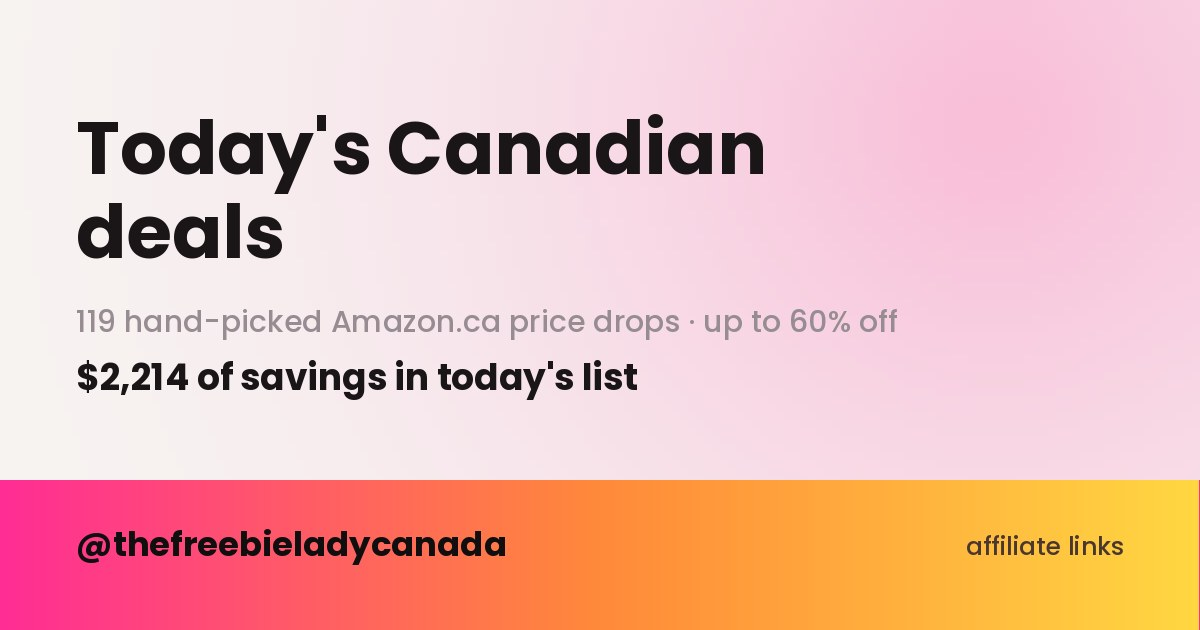
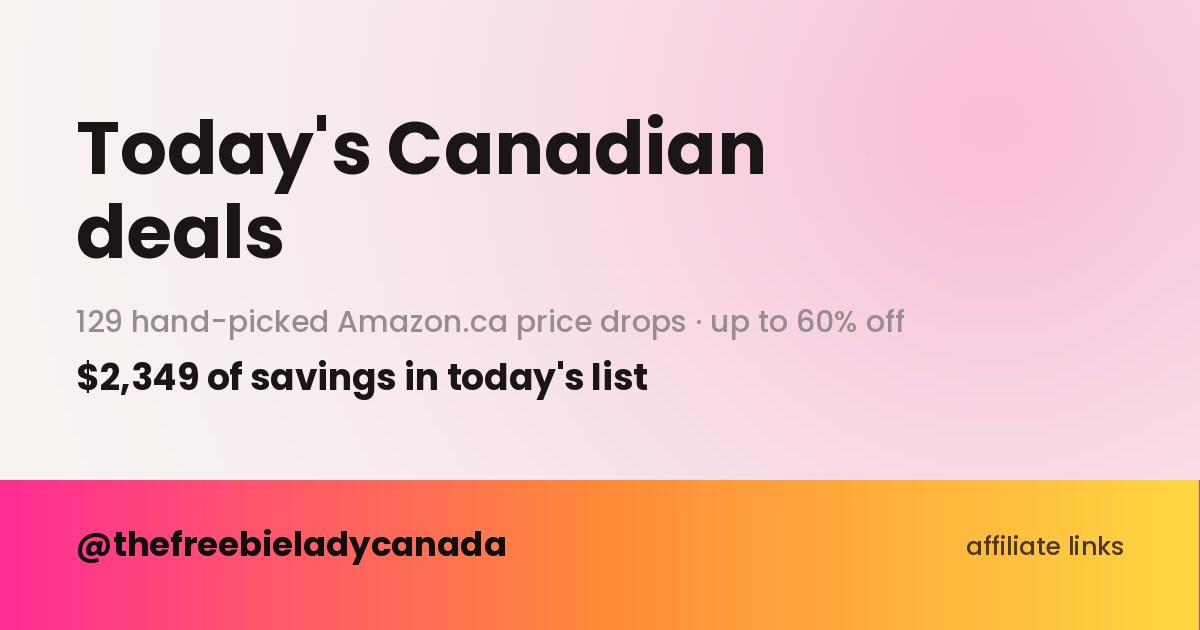
Add files via upload

Changed region(s): [[0.0617, 0.4825, 0.7708, 0.5429], [0.0925, 0.573, 0.555, 0.6333]]

diff --git a/index.html b/index.html
@@ -4,12 +4,12 @@
 <meta charset="utf-8">
 <meta name="viewport" content="width=device-width, initial-scale=1">
 <title>Today's Canadian Deals — The Freebie Lady Canada</title>
-<meta name="description" content="119 hand-picked Amazon.ca price drops, up to 60% off. Updated daily.">
+<meta name="description" content="129 hand-picked Amazon.ca price drops, up to 60% off. Updated daily.">
 <link rel="canonical" href="https://thefreebieladycanada.com/">
 <meta property="og:type" content="website">
 <meta property="og:site_name" content="The Freebie Lady Canada">
 <meta property="og:title" content="Today's Canadian Deals">
-<meta property="og:description" content="119 hand-picked Amazon.ca price drops, up to 60% off. Updated daily.">
+<meta property="og:description" content="129 hand-picked Amazon.ca price drops, up to 60% off. Updated daily.">
 <meta property="og:url" content="https://thefreebieladycanada.com/">
 <meta property="og:image" content="https://thefreebieladycanada.com/og.jpg">
 <meta property="og:image:width" content="1200">
@@ -172,7 +172,7 @@ footer b{color:var(--ink); font-weight:600}
     <div class="rule"></div>
     <p class="sub">Hand-picked price drops on Amazon.ca — from
       <b>@thefreebieladycanada</b>.</p>
-    <p class="meta">119 deals &middot; checked 21 September, 11:49 AM ET</p>
+    <p class="meta">129 deals &middot; checked 21 September, 7:04 PM ET</p>
   </header>
 
   <p class="upfront"><b>Affiliate links</b> — every link on this page, including the perks below, is an Amazon affiliate link.</p>
@@ -235,7 +235,7 @@ footer b{color:var(--ink); font-weight:600}
         <span class="go" aria-hidden="true">&rarr;</span>
       </a>
     </div>
-    <a class="jump" href="#deals">See today's 119 deals &darr;</a>
+    <a class="jump" href="#deals">See today's 129 deals &darr;</a>
   </section>
 
   <h2 class="deals-head" id="deals">Today's deals</h2>
@@ -244,10 +244,90 @@ footer b{color:var(--ink); font-weight:600}
     <details class="daygroup" open>
       <summary class="daysum">
         <span class="daylabel">Today</span>
-        <span class="daycount">5 deals</span>
+        <span class="daycount">15 deals</span>
         <span class="chev" aria-hidden="true">&#9662;</span>
       </summary>
       <ul>
+
+    <li>
+      <a class="deal" href="https://www.amazon.ca/dp/B00GGBI5CC?tag=thefreebielad-20&amp;linkCode=ll1&amp;language=en_CA" target="_blank" rel="nofollow sponsored noopener">
+        <span class="off"><b>52%</b><i>off</i></span>
+        <span class="txt">
+          <span class="name">Elmer&#x27;s Glue Sticks, 2pk</span>
+          <span class="prices">
+            <span class="now">$2.00</span>
+            <span class="was">$4.18</span>
+            <span class="save">save $2.18</span>
+          </span>
+          
+        </span>
+        <span class="go" aria-hidden="true">&rarr;</span>
+      </a>
+    </li>
+
+    <li>
+      <a class="deal" href="https://www.amazon.ca/dp/B0BCW4YMR8?tag=thefreebielad-20&amp;linkCode=ll1&amp;language=en_CA" target="_blank" rel="nofollow sponsored noopener">
+        <span class="off"><b>50%</b><i>off</i></span>
+        <span class="txt">
+          <span class="name">NIIMBOT B1 Label Maker</span>
+          <span class="prices">
+            <span class="now">$29.99</span>
+            <span class="was">$59.99</span>
+            <span class="save">save $30.00</span>
+          </span>
+          
+        </span>
+        <span class="go" aria-hidden="true">&rarr;</span>
+      </a>
+    </li>
+
+    <li>
+      <a class="deal" href="https://www.amazon.ca/dp/B085G87LL6?tag=thefreebielad-20&amp;linkCode=ll1&amp;language=en_CA" target="_blank" rel="nofollow sponsored noopener">
+        <span class="off"><b>49%</b><i>off</i></span>
+        <span class="txt">
+          <span class="name">Stretch Couch Cover</span>
+          <span class="prices">
+            <span class="now">$35.99</span>
+            <span class="was">$69.99</span>
+            <span class="save">save $34.00</span>
+          </span>
+          
+        </span>
+        <span class="go" aria-hidden="true">&rarr;</span>
+      </a>
+    </li>
+
+    <li>
+      <a class="deal" href="https://www.amazon.ca/dp/B0CP67QWLY?tag=thefreebielad-20&amp;linkCode=ll1&amp;language=en_CA" target="_blank" rel="nofollow sponsored noopener">
+        <span class="off"><b>48%</b><i>off</i></span>
+        <span class="txt">
+          <span class="name">CRAFTSMAN Tape, 25 Ft</span>
+          <span class="prices">
+            <span class="now">$7.99</span>
+            <span class="was">$15.49</span>
+            <span class="save">save $7.50</span>
+          </span>
+          
+        </span>
+        <span class="go" aria-hidden="true">&rarr;</span>
+      </a>
+    </li>
+
+    <li>
+      <a class="deal" href="https://www.amazon.ca/dp/B0CMYWW435?tag=thefreebielad-20&amp;linkCode=ll1&amp;language=en_CA" target="_blank" rel="nofollow sponsored noopener">
+        <span class="off"><b>48%</b><i>off</i></span>
+        <span class="txt">
+          <span class="name">Pentel GraphGear 1000</span>
+          <span class="prices">
+            <span class="now">$12.99</span>
+            <span class="was">$24.99</span>
+            <span class="save">save $12.00</span>
+          </span>
+          
+        </span>
+        <span class="go" aria-hidden="true">&rarr;</span>
+      </a>
+    </li>
 
     <li>
       <a class="deal" href="https://www.amazon.ca/dp/B015WIA61C?tag=thefreebielad-20&amp;linkCode=ll1&amp;language=en_CA" target="_blank" rel="nofollow sponsored noopener">
@@ -258,6 +338,22 @@ footer b{color:var(--ink); font-weight:600}
             <span class="now">$10.99</span>
             <span class="was">$20.59</span>
             <span class="save">save $9.60</span>
+          </span>
+          
+        </span>
+        <span class="go" aria-hidden="true">&rarr;</span>
+      </a>
+    </li>
+
+    <li>
+      <a class="deal" href="https://www.amazon.ca/dp/B0007LTNXC?tag=thefreebielad-20&amp;linkCode=ll1&amp;language=en_CA" target="_blank" rel="nofollow sponsored noopener">
+        <span class="off"><b>46%</b><i>off</i></span>
+        <span class="txt">
+          <span class="name">Sticky Notes, 12 Pads</span>
+          <span class="prices">
+            <span class="now">$7.49</span>
+            <span class="was">$13.99</span>
+            <span class="save">save $6.50</span>
           </span>
           
         </span>
@@ -282,6 +378,22 @@ footer b{color:var(--ink); font-weight:600}
     </li>
 
     <li>
+      <a class="deal" href="https://www.amazon.ca/dp/B01MU7C7MZ?tag=thefreebielad-20&amp;linkCode=ll1&amp;language=en_CA" target="_blank" rel="nofollow sponsored noopener">
+        <span class="off"><b>40%</b><i>off</i></span>
+        <span class="txt">
+          <span class="name">Fiskars Shop Shears</span>
+          <span class="prices">
+            <span class="now">$25.89</span>
+            <span class="was">$42.87</span>
+            <span class="save">save $16.98</span>
+          </span>
+          
+        </span>
+        <span class="go" aria-hidden="true">&rarr;</span>
+      </a>
+    </li>
+
+    <li>
       <a class="deal" href="https://www.amazon.ca/dp/B0CNWHCL1J?tag=thefreebielad-20&amp;linkCode=ll1&amp;language=en_CA" target="_blank" rel="nofollow sponsored noopener">
         <span class="off"><b>39%</b><i>off</i></span>
         <span class="txt">
@@ -290,6 +402,22 @@ footer b{color:var(--ink); font-weight:600}
             <span class="now">$30.56</span>
             <span class="was">$49.99</span>
             <span class="save">save $19.43</span>
+          </span>
+          
+        </span>
+        <span class="go" aria-hidden="true">&rarr;</span>
+      </a>
+    </li>
+
+    <li>
+      <a class="deal" href="https://www.amazon.ca/dp/B07GBVGZGL?tag=thefreebielad-20&amp;linkCode=ll1&amp;language=en_CA" target="_blank" rel="nofollow sponsored noopener">
+        <span class="off"><b>37%</b><i>off</i></span>
+        <span class="txt">
+          <span class="name">Crumps&#x27; Dental Sticks</span>
+          <span class="prices">
+            <span class="now">$6.00</span>
+            <span class="was">$9.59</span>
+            <span class="save">save $3.59</span>
           </span>
           
         </span>
@@ -314,6 +442,22 @@ footer b{color:var(--ink); font-weight:600}
     </li>
 
     <li>
+      <a class="deal" href="https://www.amazon.ca/dp/B0CTJGJL2T?tag=thefreebielad-20&amp;linkCode=ll1&amp;language=en_CA" target="_blank" rel="nofollow sponsored noopener">
+        <span class="off"><b>32%</b><i>off</i></span>
+        <span class="txt">
+          <span class="name">Candle Warmer Lamp</span>
+          <span class="prices">
+            <span class="now">$28.45</span>
+            <span class="was">$41.99</span>
+            <span class="save">save $13.54</span>
+          </span>
+          
+        </span>
+        <span class="go" aria-hidden="true">&rarr;</span>
+      </a>
+    </li>
+
+    <li>
       <a class="deal" href="https://www.amazon.ca/dp/B01D4UB3XU?tag=thefreebielad-20&amp;linkCode=ll1&amp;language=en_CA" target="_blank" rel="nofollow sponsored noopener">
         <span class="off"><b>31%</b><i>off</i></span>
         <span class="txt">
@@ -322,6 +466,22 @@ footer b{color:var(--ink); font-weight:600}
             <span class="now">$33.89</span>
             <span class="was">$48.98</span>
             <span class="save">save $15.09</span>
+          </span>
+          
+        </span>
+        <span class="go" aria-hidden="true">&rarr;</span>
+      </a>
+    </li>
+
+    <li>
+      <a class="deal" href="https://www.amazon.ca/dp/B08CX9W7G3?tag=thefreebielad-20&amp;linkCode=ll1&amp;language=en_CA" target="_blank" rel="nofollow sponsored noopener">
+        <span class="off"><b>30%</b><i>off</i></span>
+        <span class="txt">
+          <span class="name">Digital Multimeter</span>
+          <span class="prices">
+            <span class="now">$20.99</span>
+            <span class="was">$29.99</span>
+            <span class="save">save $9.00</span>
           </span>
           
         </span>
